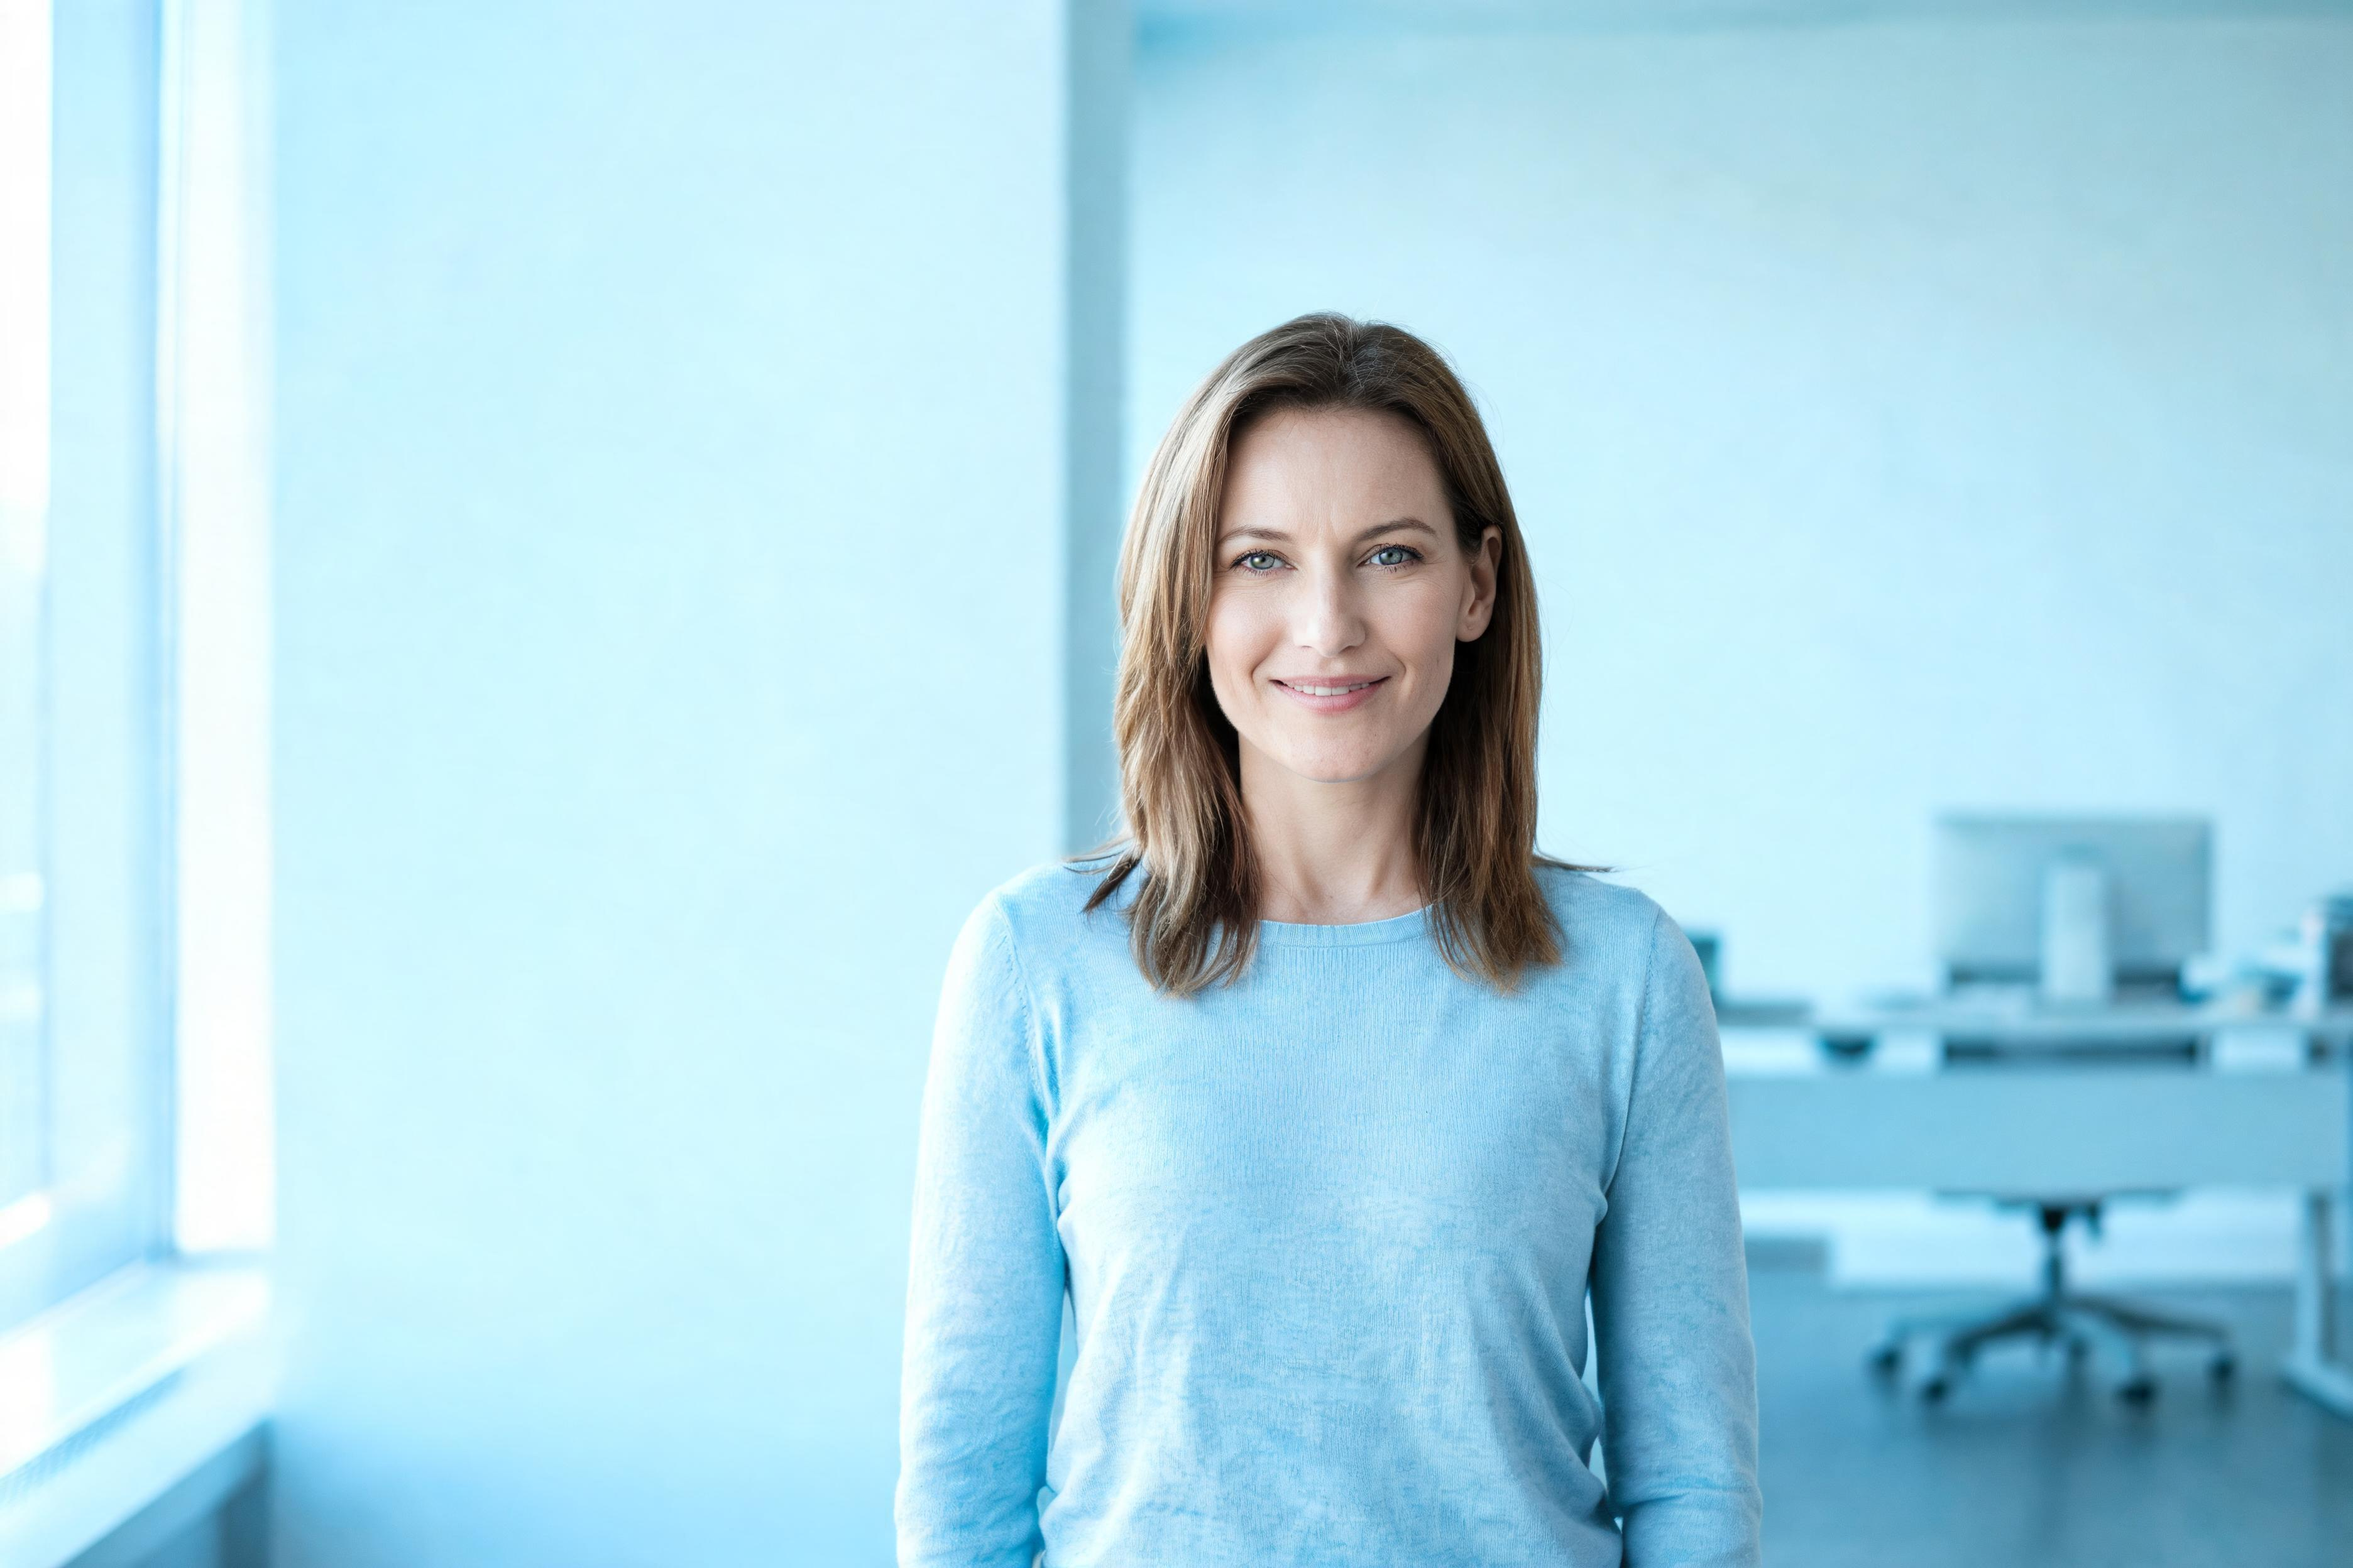
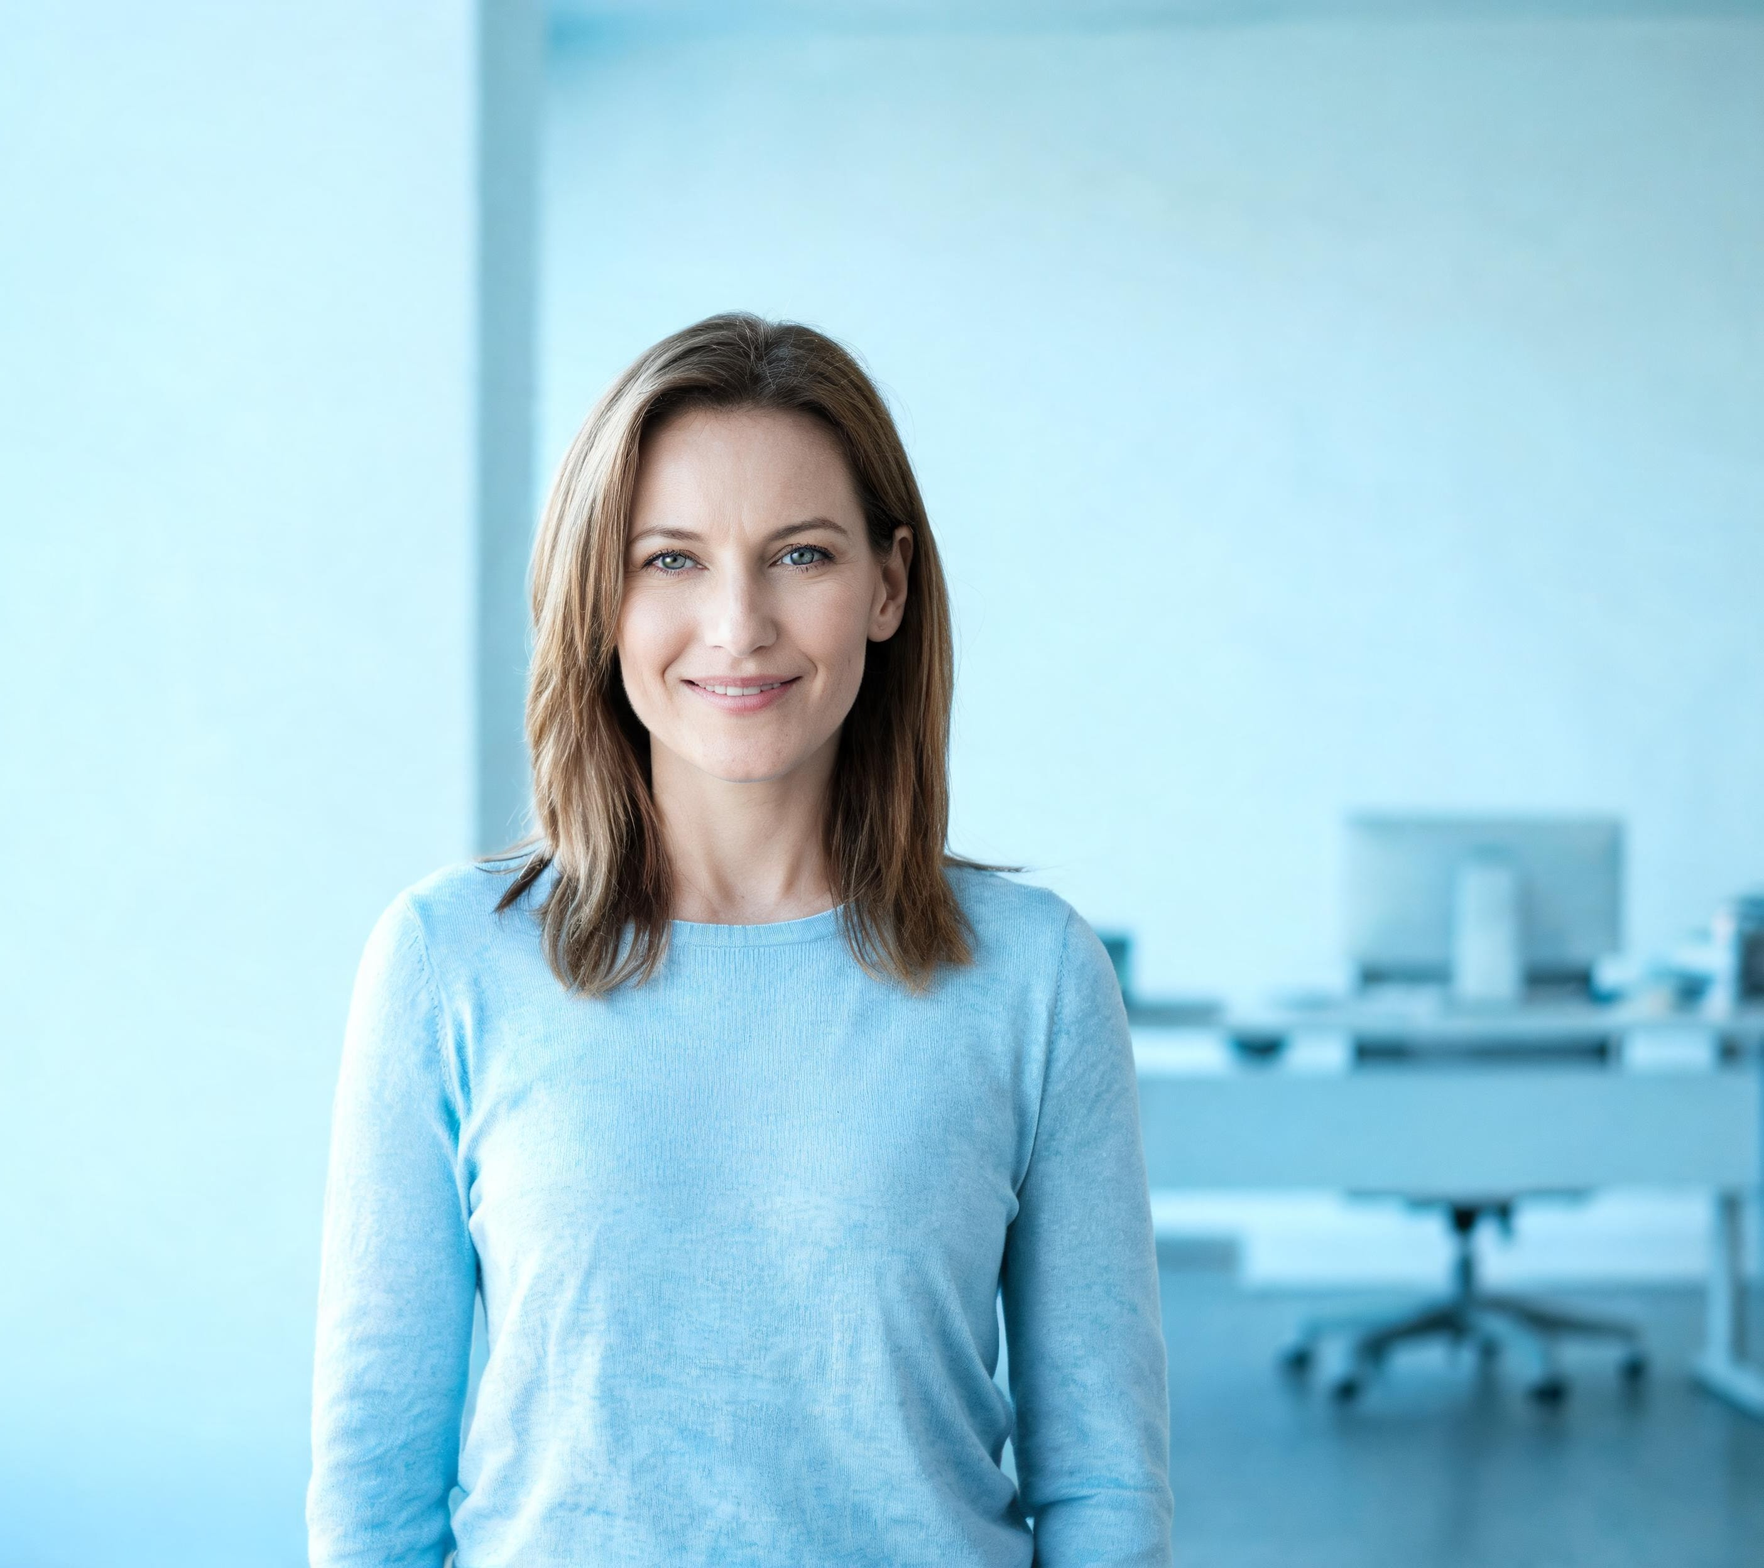
Przesunięcie bohaterki w pasie strony głównej spod karty kalkulatora
Karta kalkulatora ucinała jej pół głowy. Bohaterka stała na 56% szerokości
kadru, a lewa krawędź karty to `szerokość/2 + 164` px — przy 1440 px wypada
na 61%, przy 1920 na 59%, przy 2560 na 56%.

Samo `object-position` tego nie naprawia i to jest sedno tej zmiany:

  1920 px → zapas poziomy tylko 113 px, za mało przy każdej wartości
  2560 px → kadr skaluje się po szerokości, pozioma składowa bezczynna,
            bohaterka na stałe 246 px za kartą

Powyżej okna `1355 × proporcje kadru` (wysokość pasa dyktuje karta, nie
zdjęcie) zdjęcie skaluje się po szerokości i przesuwanie kadru nie robi nic.
Dlatego bohaterka musiała przesunąć się w samym pliku: hero.jpeg przycięte
o 25% z lewej, 3744×2496 → 2808×2496. Klasa `object-[50%_25%]` zostaje bez
zmian.

Sprawdzone zrzutami przy 1280, 1440, 1920 i 2560 px — głowa mieści się
w całości na lewo od karty przy każdej z tych szerokości. Na telefonie bez
zmian: tam karta stoi pod tekstem, a zdjęcie i tak wybiela zasłona.

Nowy test czyta wymiary kadru z `width`/`height` w zbudowanym znaczniku
i wymaga 0,9–1,2:1. Sprawdzony w obie strony: na kadrze 3:2 pada
z komunikatem, co przyciąć.

CLAUDE.md miało tu wytyczną „bohater mniej więcej na 58% szerokości" —
czyli dokładnie tam, gdzie stoi krawędź karty. Zastąpione arytmetyką
i tabelą zapasu, żeby nikt nie zamówił tak drugi raz.

Claude-Session: https://claude.ai/code/session_01ALndoJnrpxt7qnyhZ14Cv8

diff --git a/apps/portal/test/linki.spec.js b/apps/portal/test/linki.spec.js
@@ -224,6 +224,47 @@ test('pas strony głównej: zdjęcie albo nic, nigdy sama zasłona', () => {
     .toContain('object-[50%_25%]');
 });
 
+test('kadr strony głównej jest węższy niż 3:2 — inaczej bohater wpada za kartę', () => {
+  /**
+   * Wysokość pasa strony głównej dyktuje karta kalkulatora: 1355 px, niezależnie
+   * od szerokości okna. Zdjęcie ma tę wysokość pokryć, więc przy szerokim kadrze
+   * jest mocno przeskalowane i `object-position` szybko traci zapas.
+   *
+   * Karta stoi po prawej, a jej lewa krawędź to `szerokość/2 + 164` px — im
+   * szersze okno, tym bliżej środka ekranu. Bohater stojący na 58% szerokości
+   * kadru (tak brzmiała pierwotna wytyczna) trafiał dokładnie za nią:
+   *
+   *   1920 px → zapas poziomy tylko 113 px, za mało przy każdym object-position
+   *   2560 px → kadr skaluje się po SZEROKOŚCI, object-position bezczynne,
+   *             bohater na stałe 246 px za kartą
+   *
+   * Dlatego kadr źródłowy musi być węższy niż pas: przy proporcjach ≤ 1,2:1
+   * całą szerokość zdjęcia widać już od okna 1626 px, więc pozycja bohatera
+   * przestaje zależeć od szerokości okna. Plik w repo ma 2808×2496 (1,125:1) —
+   * to oryginał 3744×2496 przycięty o 25% z lewej.
+   *
+   * Czego ten test NIE sprawdza: gdzie w kadrze stoi bohater. Tego nie da się
+   * odczytać z pliku — po podmianie zdjęcia obejrzyj pas przy 1440 i 1920 px
+   * i sprawdź, czy głowa mieści się na lewo od karty.
+   */
+  const jestPlik = ROZSZERZENIA_HERO
+    .some((ext) => existsSync(join(KORZEN, `src/obrazy/hero.${ext}`)));
+  if (!jestPlik) return;
+
+  const html = readFileSync(join(DIST, 'index.html'), 'utf8');
+  const obraz = html.slice(html.indexOf('relative isolate')).match(/<img[^>]*>/)?.[0] ?? '';
+  const szerokosc = Number(obraz.match(/width="(\d+)"/)?.[1]);
+  const wysokosc = Number(obraz.match(/height="(\d+)"/)?.[1]);
+  expect(szerokosc, 'brak wymiarów w znaczniku zdjęcia').toBeGreaterThan(0);
+
+  const proporcje = szerokosc / wysokosc;
+  expect(proporcje, `kadr ${szerokosc}×${wysokosc} (${proporcje.toFixed(2)}:1) za szeroki — `
+    + 'bohater wpadnie za kartę kalkulatora; przytnij z lewej')
+    .toBeLessThanOrEqual(1.2);
+  expect(proporcje, `kadr ${szerokosc}×${wysokosc} za wąski — pas utnie go w pionie`)
+    .toBeGreaterThanOrEqual(0.9);
+});
+
 test('nagłówek leży na zdjęciu, nie pod nim', () => {
   /**
    * Zdjęcie było kiedyś osobnym pasem nad nagłówkiem. Musiało być przez to

diff --git a/CLAUDE.md b/CLAUDE.md
@@ -586,18 +586,53 @@ Brak pliku to sam gradient — pas nie renderuje ani obrazu, ani zasłony.
 **Nie zamawiaj go według wzorca „bohater po prawej".** W pasie strony głównej
 po prawej stoi karta kalkulatora (`lg:w-[26em]`, nieprzezroczysta) i zasłania
 dokładnie ten fragment kadru, w którym na podstronach zawodu siedzi bohater.
-Po lewej jest nagłówek i lead. Bohater ma więc stać **tuż na prawo od środka**,
-mniej więcej na 58% szerokości, a lewe 45% zostaje spokojne.
+Po lewej jest nagłówek i lead.
 
-Proporcje: **3:2**, jak kategorie. Pas na desktopie jest szerszy (ok. 2,3:1),
-więc 21:9 pasowałby lepiej — ale na telefonie ten sam pas jest wysoki i wąski,
-a `object-cover` pokazuje z niego pionowy pasek. Z 3:2 zostaje wtedy więcej
-kadru niż z 21:9, a ruch jest głównie mobilny.
+**Bohater ma stać na lewo od środka — jego prawa krawędź najdalej na 55%
+szerokości kadru.** Wcześniej stało tu „mniej więcej na 58%" i to była pomyłka:
+58% kadru to dokładnie miejsce, w którym stoi lewa krawędź karty.
+
+Arytmetyka, bo bez niej ta wytyczna wygląda na widzimisię. Wysokość pasa
+dyktuje karta kalkulatora — **1355 px, niezależnie od szerokości okna**. Lewa
+krawędź karty to `szerokość/2 + 164` px, więc im szersze okno, tym bliżej
+środka ekranu:
+
+| Okno | Lewa krawędź karty | Zapas poziomy przy kadrze 3:2 |
+|---|---|---|
+| 1280 px | 63% | 753 px |
+| 1440 px | 61% | 593 px |
+| 1920 px | 59% | **113 px — za mało przy każdym `object-position`** |
+| 2560 px | 56% | **0 — kadr skaluje się po szerokości, `object-position` bezczynne** |
+
+Dlatego **przesunięcie `object-position` tego nie naprawia** i nie próbuj tego
+drugi raz: powyżej okna `1355 × proporcje kadru` zdjęcie skaluje się po
+szerokości i pozioma składowa `object-position` nie robi już nic.
+
+Proporcje: **węższe niż 3:2, docelowo około 1,1:1**. Plik w repo ma 2808×2496
+(1,125:1) — to oryginał 3744×2496 z Artlista przycięty o 25% z lewej, bo
+bohaterka stała na 56% i karta ucinała jej pół głowy. Przy proporcjach ≤ 1,2:1
+całą szerokość zdjęcia widać już od okna 1626 px, więc pozycja bohatera
+przestaje zależeć od szerokości okna.
+
+Kadr z generatora przychodzi szeroki (3:2 albo 21:9) i **trzeba go przyciąć
+z lewej przed wrzuceniem do repo** — albo od razu zamówić bohatera po lewej.
+
+Skutek uboczny, o którym warto wiedzieć: przesunięcie bohatera w lewo wsuwa go
+pod mocniejszą część `.zaslona-hero` (95% bieli do 46% szerokości), więc zdjęcie
+czyta się bardziej jako tło niż jako portret. To jest wymuszone układem —
+między prawą krawędzią tekstu a lewą krawędzią karty jest zawsze 56 px
+(`gap-14`), a głowa ma na ekranie ze 250 px. Nie ma pozycji, w której bohater
+omija i tekst, i kartę. Rozjaśnienie zasłony wymaga przeliczenia kontrastów
+z tabeli wyżej — lead ma 4,6:1 przy wymaganych 4,5:1, czyli zero zapasu.
 
 Pilnuje tego `test/linki.spec.js`:
 - bez pliku pas nie może mieć `zaslona-hero` (zasłona bez zdjęcia to ciemna
   plama, przez którą nie prześwituje nic),
 - z plikiem pas musi mieć zasłonę i `object-[50%_25%]`,
+- kadr źródłowy mieści się w 0,9–1,2:1; test czyta wymiary z `width`/`height`
+  w zbudowanym znaczniku. **Nie sprawdza, gdzie w kadrze stoi bohater** — tego
+  z pliku odczytać się nie da, więc po podmianie zdjęcia obejrzyj pas przy
+  1440 i 1920 px,
 - kafelki kategorii na stronie głównej liczone są **po opisie alternatywnym**,
   nie po wszystkich `<img>` — zdjęcie nagłówka też jest `<img>`, tylko z pustym
   `alt`, bo znaczenie niesie nagłówek leżący na nim.
